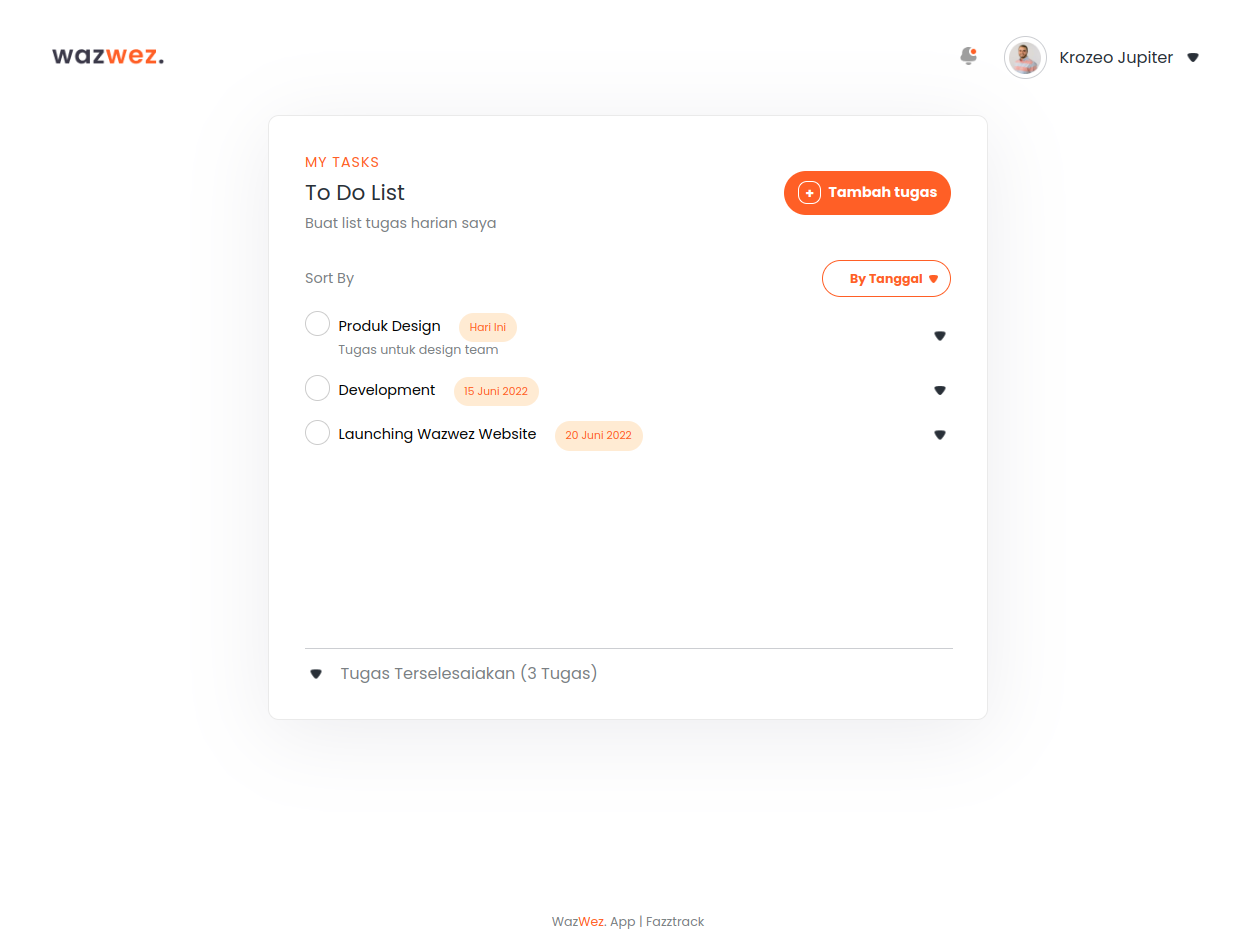
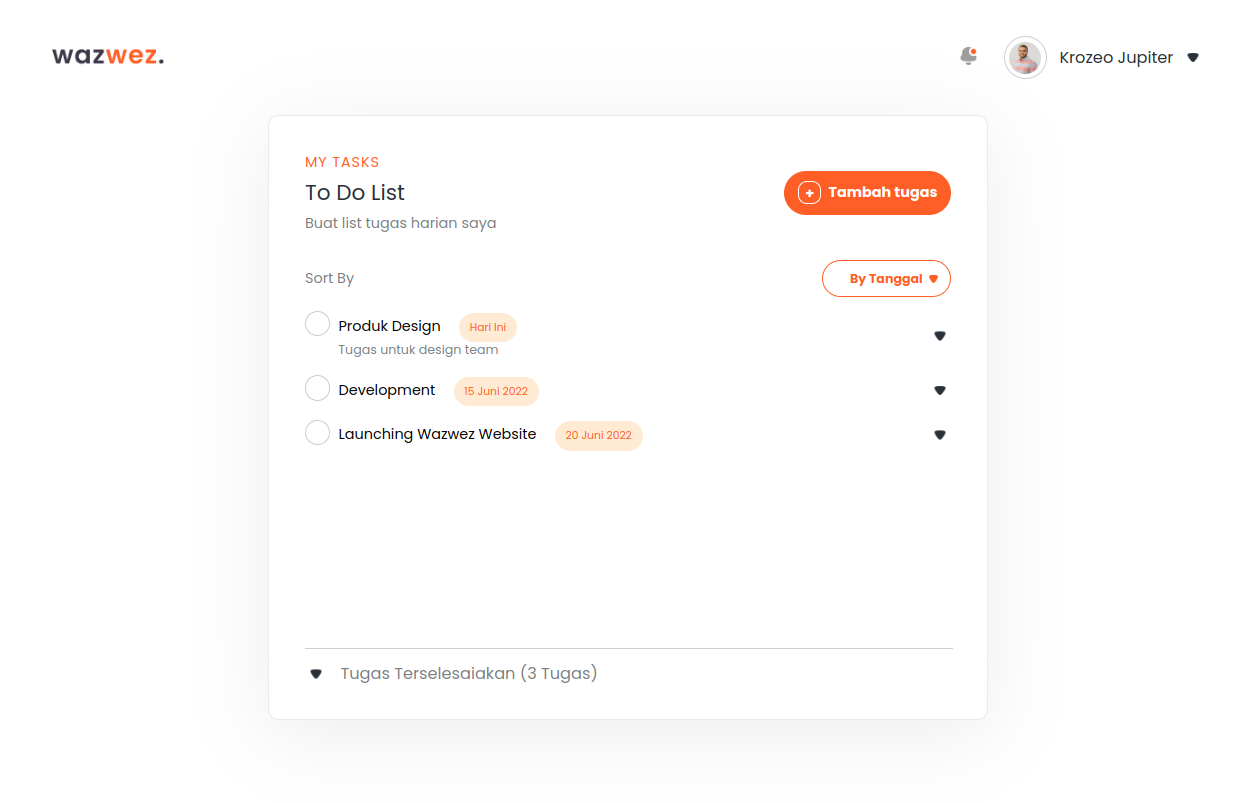
tambah file dan perbaiki task

diff --git a/index.html b/index.html
@@ -24,7 +24,7 @@
             />
             <img
               class="notif-circle"
-              src="/assets/img/Iconly-Bold-Ellipse 36.png"
+              src="/assets/img/Iconly-Bold-Notification-In.png"
             />
           </div>
           <!-- avatar -->
@@ -73,7 +73,7 @@
             <span class="sort_content">Hari Ini</span>
             <p class="text_content">Tugas untuk design team</p>
           </div>
-          <img src="/assets/img/dropdown black.png" alt="dropdown" />
+          <img src="/assets/img/dropdown black.png" alt="dropdown" class="task_dropdown"/>
         </div>
         <!-- content 2-->
         <div class="task_content_bar">
@@ -82,9 +82,9 @@
             <label for="checkbox2"></label>
             <span class="title_content">Development</span>
             <span class="sort_content">15 Juni 2022</span>
-            <p></p>
+            <p class="text_content"></p>
           </div>
-          <img src="/assets/img/dropdown black.png" alt="dropdown" />
+          <img src="/assets/img/dropdown black.png" alt="dropdown" class="task_dropdown" />
         </div>
 
         <!-- content 3-->
@@ -96,7 +96,7 @@
             <span class="sort_content">20 Juni 2022</span>
             <p></p>
           </div>
-          <img src="/assets/img/dropdown black.png" alt="dropdown" />
+          <img src="/assets/img/dropdown black.png" alt="dropdown" class="task_dropdown" />
         </div>
       </div>
       <div class="batas_line"></div>

diff --git a/assets/style/style.css b/assets/style/style.css
@@ -227,15 +227,12 @@ main {
   display: flex;
   margin-top: 16px;
   align-items: center;
-  align-content: center;
   justify-content: space-between;
   position: relative;
 }
 
 .task_content_bar .task_content {
   padding: 5px;
-  width: 100%;
-  height: 100%;
   position: relative;
 }
 
